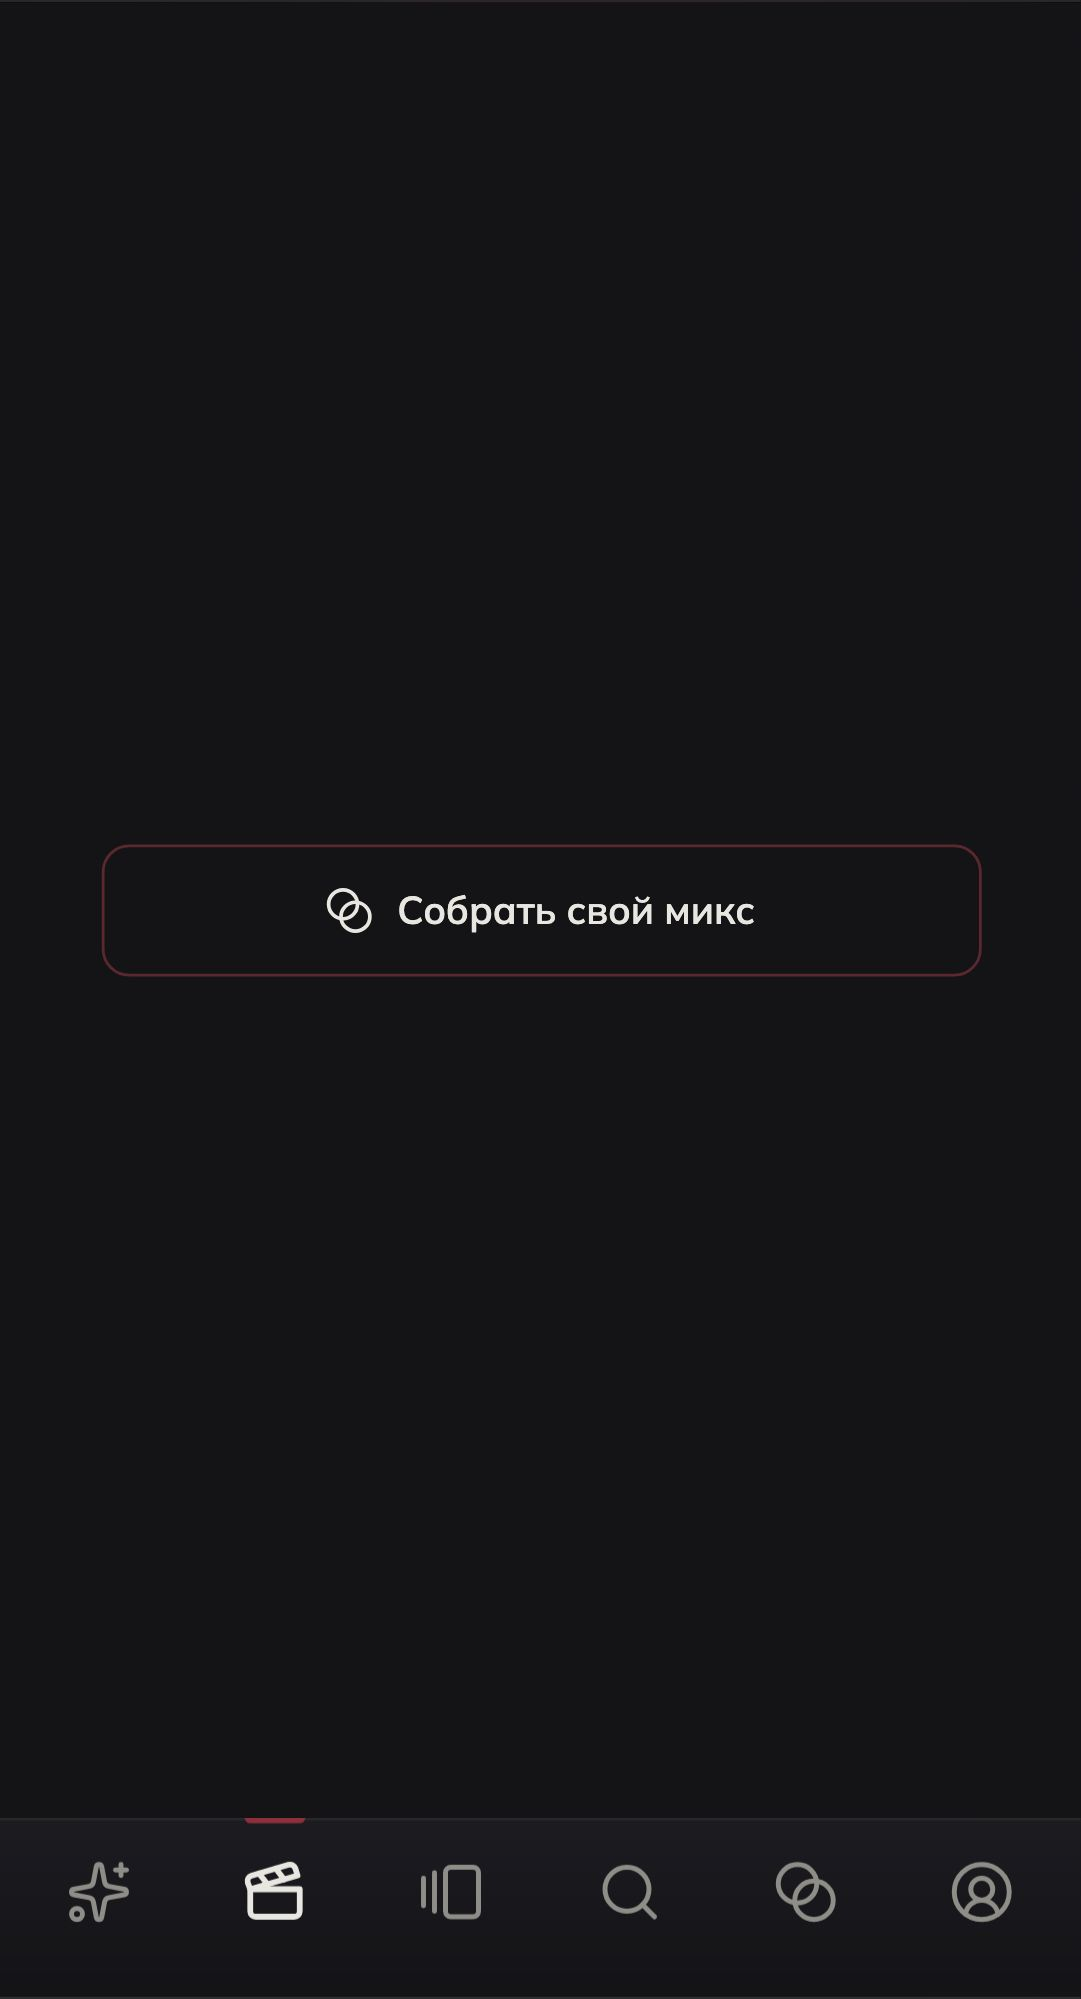
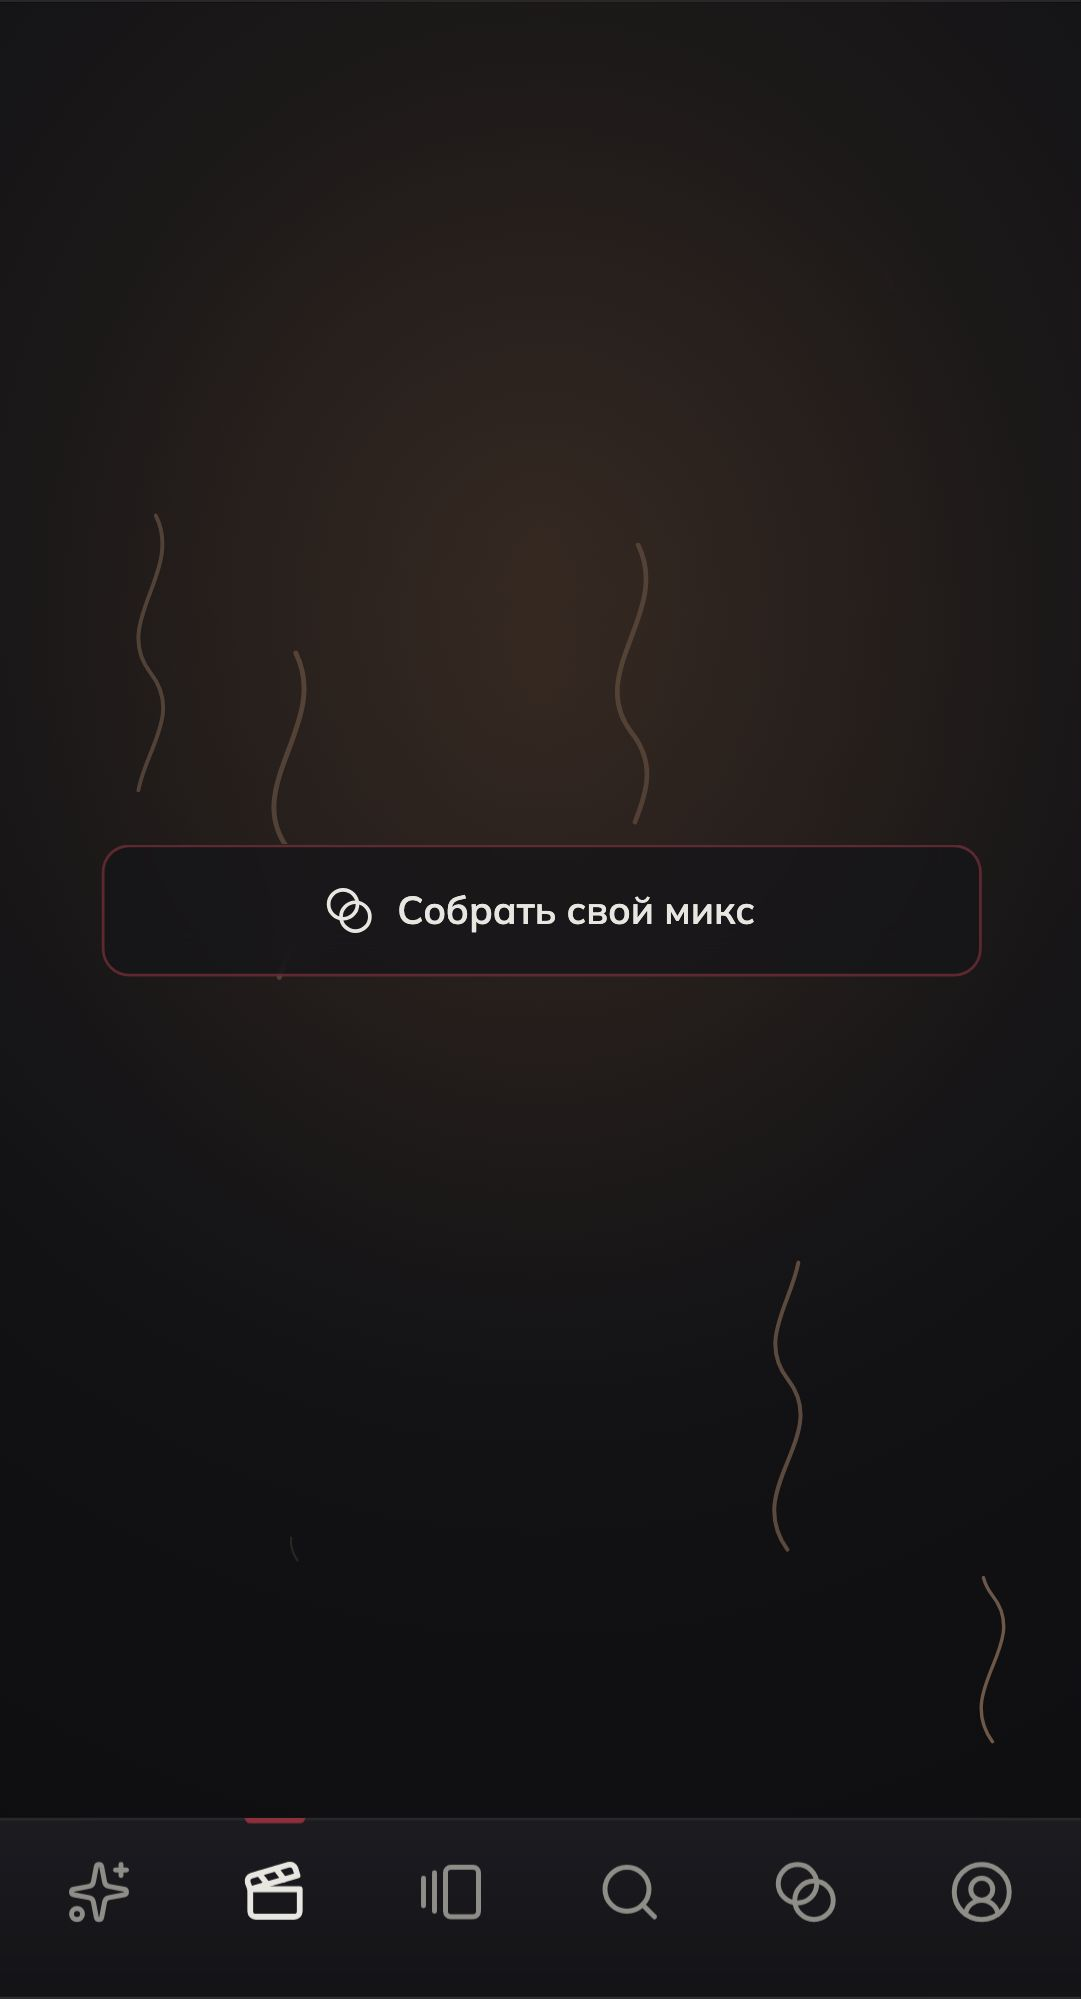
feat(aroma-web): конец рилсов на анимированной сцене «Дым» (#349)
Экран с одной кнопкой выглядел пустым. Фон — та же сцена, что у рилсов
(«Дым»), играет, пока конец ленты на экране; при reduced motion — статичный
кадр. У кнопки подложка с размытием, чтобы струи не шли сквозь текст.

diff --git a/apps/aroma-web/src/components/reels/FeedEnd.tsx b/apps/aroma-web/src/components/reels/FeedEnd.tsx
@@ -1,11 +1,25 @@
+import { lazy, Suspense } from 'react';
 import { MixerInvite } from '@/components/mixer/MixerInvite';
+import { ReelStill, type ReelMix } from './ReelStill';
+
+const ReelPlayer = lazy(() => import('./ReelPlayer'));
+
+// Фон конца ленты — сцена «Дым» без микса: лента не обрывается в пустой экран.
+const END_SCENE: ReelMix = { id: 'feed-end', flavors: ['табачный'], flavorProfiles: [] };
 
 // Конец ленты (#298, #349): после последнего микса — та же кнопка в «Намиксуй»,
 // что в конце Подбора. Миксер открывается кнопкой, а не жестом: свайп дальше
 // ничего не делает.
-export function FeedEnd({ onMixer }: { onMixer: () => void }) {
+export function FeedEnd({ onMixer, playing }: { onMixer: () => void; playing: boolean }) {
   return (
     <section className="reel-end" aria-label="Конец ленты">
+      {playing ? (
+        <Suspense fallback={<ReelStill mix={END_SCENE} />}>
+          <ReelPlayer mix={END_SCENE} playing />
+        </Suspense>
+      ) : (
+        <ReelStill mix={END_SCENE} />
+      )}
       <MixerInvite onOpen={onMixer} />
     </section>
   );

diff --git a/apps/aroma-web/src/styles.css b/apps/aroma-web/src/styles.css
@@ -2731,6 +2731,8 @@ select:focus-visible {
 
 /* Конец ленты (#298): тот же центрированный регистр, что у пустой ленты. */
 .reel-end {
+  position: relative;
+  overflow: hidden;
   height: 100%;
   display: grid;
   align-content: center;
@@ -2741,9 +2743,15 @@ select:focus-visible {
 }
 
 .reel-end > .aroma-mixer-invite {
+  position: relative;
   width: 100%;
   max-width: 320px;
   margin-top: 0;
+}
+
+.reel-end .aroma-mixer-invite-btn {
+  background: rgba(20, 20, 23, 0.72);
+  backdrop-filter: blur(8px);
 }
 
 .reel-empty-text {

diff --git a/apps/aroma-web/src/components/reels/Feed.tsx b/apps/aroma-web/src/components/reels/Feed.tsx
@@ -101,7 +101,7 @@ export function Feed<T extends ReelFeedMix>({
             </div>
           ))}
           <div className="reel-slot">
-            <FeedEnd onMixer={onMixer} />
+            <FeedEnd onMixer={onMixer} playing={atEnd && animated} />
           </div>
         </div>
       </div>

diff --git a/design/design_handoff_reels_continuation/README.md b/design/design_handoff_reels_continuation/README.md
@@ -71,7 +71,7 @@ python3 -m http.server 8765 --bind 127.0.0.1
 3. На первом рилсе сверху кнопка «К подбору», sentence case, радиус `--r-guest-control`, без иконки.
 4. Свайп вниз на первом рилсе (`back-pull`) — зеркальное дотягивание с тем же порогом. Возврат — в конец Подбора, к тизеру.
 5. Подбор пуст (`empty-reels`): лента — весь каталог, «К подбору» нет, свайп вниз ничего не делает.
-6. Конец ленты (`small-reels`, №52): только кнопка «Собрать свой микс», та же, что в конце Подбора (`MixerInvite`). Заголовок «Это все миксы» убран по решению владельца.
+6. Конец ленты (`small-reels`, №52): только кнопка «Собрать свой микс», та же, что в конце Подбора (`MixerInvite`). Заголовок «Это все миксы» убран по решению владельца. Фон — анимированная сцена «Дым», как у рилсов; у кнопки подложка с размытием, чтобы дым не шёл сквозь текст.
 7. Пустая лента (`feed-empty`, №51): «Миксов в наличии нет» и «Спросите мастера, что есть сегодня.».
 
 ### 5. Нижняя панель
